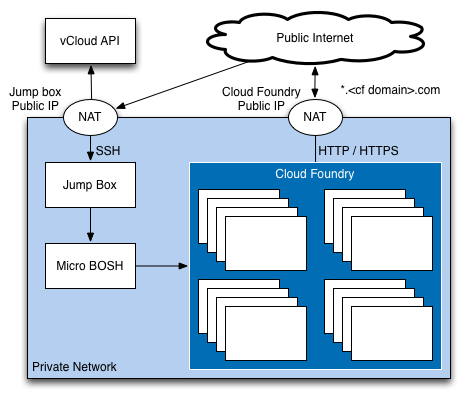
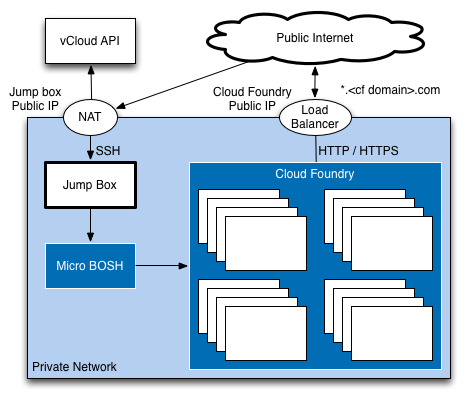
more clarity on the front page, updated to show load balancer approach

Changed region(s): [[0.4468, 0.209, 0.7745, 0.3881], [0.0894, 0.597, 0.3872, 0.7164], [0.0894, 0.3582, 0.2979, 0.5373]]

diff --git a/vcloud/index.html.md b/vcloud/index.html.md
@@ -6,8 +6,12 @@ title: Deploying Cloud Foundry to vCloud Hybrid Service or vCloud Director
 
 The goal of these instructions is to help you install open source Cloud Foundry on vCloud Hybrid Service (vCHS) or on a supported vCloud Director (vCD) deployment (5.1+). Please note that security, scale and other production considerations are outside the scope of these instructions. Instead we have emphasized simplicity in getting off the ground with Cloud Foundry.
 
-The goal of these instructions is to deploy an environment that looks something like the following diagram. Specifically, we deploy all VMs to a private network. We provide access to two of these VMs from the public internet, and allow all internal VMs to connect to external IPs.
+The goal of these instructions is to deploy an environment that looks like the following diagram. Specifically:
 
+* We deploy to a private network.
+* We deploy a jump box VM in that private network from which all other deployment is carried out
+* We provide outbound connectivity for all VMs from the private network to the public network
+* We provide inbound access to the jump box and to the Cloud Foundry instance from the public network
 
 ![vCHS / vCloud Director Cloud Foundry deployment](/vcloud_images/vcloud_cf_deployment_vms.png)
 
